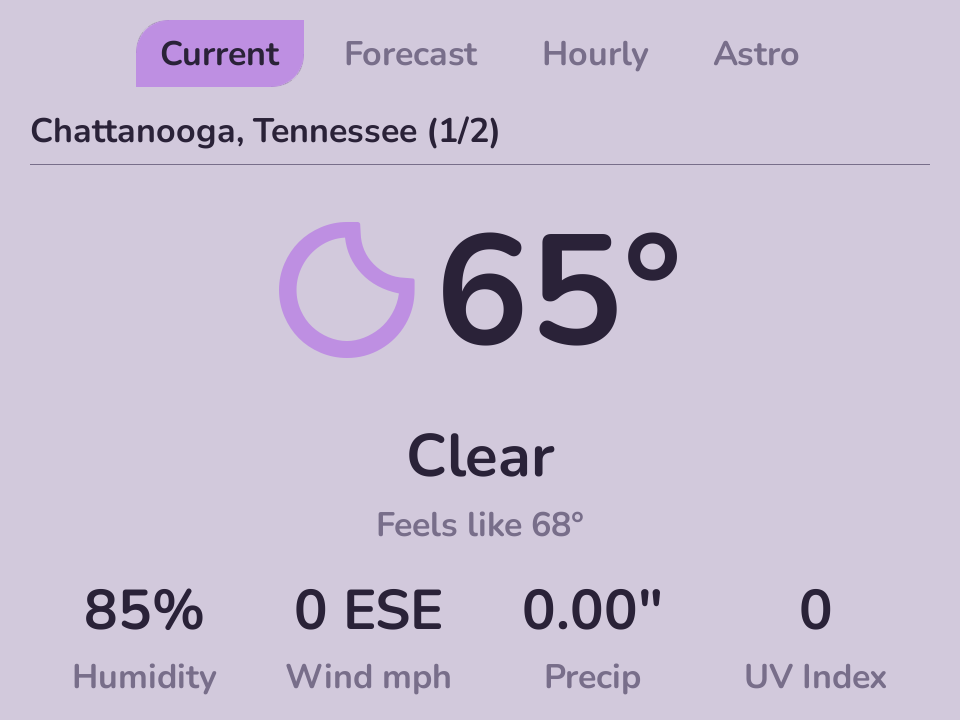
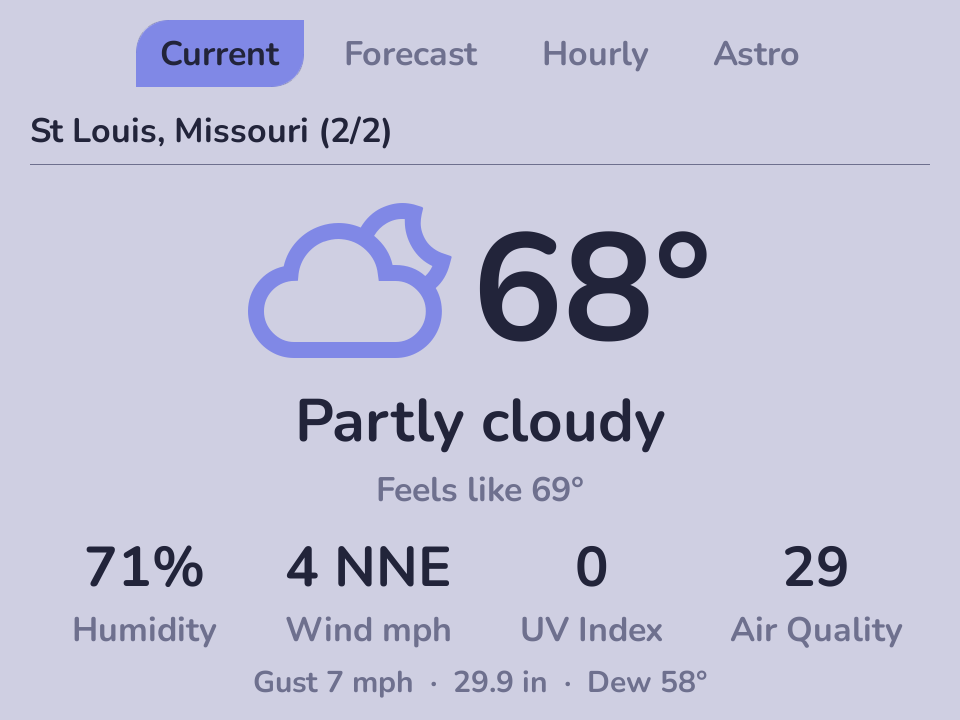
docs: refresh Nimbus page for air quality, extra stats, and the time setting

diff --git a/src/content/docs/app-store/nimbus.md b/src/content/docs/app-store/nimbus.md
@@ -28,15 +28,16 @@ on your SD card. It appears in your Apps list next boot. Nimbus is open source
   and **Astro** for sunrise, sunset, day length, and the moon phase. Switch views
   with **L1 / R1**.
 - **Big and glanceable** - a large weather glyph beside a huge temperature, then the
-  stats that matter. Built for the handheld, not shrunk down from a phone.
+  stats that matter: humidity, wind, UV, and air quality, with a details line for
+  gusts, pressure, and dew point. Built for the handheld, not shrunk down from a phone.
 - **Looks like Leaf** - it inherits your color scheme, font, and selection style, and
   the weather glyphs pick up your theme color.
 - **Many places** - search by city or postal code, or let it find you automatically.
   Flip between your saved locations with **Left / Right**.
 - **Instant, then fresh** - it shows your last weather right away and refreshes in the
   background, so it never makes you wait on the network.
-- **Works offline** - the last forecast is cached, and you can switch between
-  Fahrenheit and Celsius any time.
+- **Works offline** - the last forecast is cached, and you can switch units (Fahrenheit
+  or Celsius) and clock (12 or 24 hour) any time.
 
 ## Locations
 
@@ -51,8 +52,8 @@ or delete it. Your home location is what Nimbus opens to.
 | L1 / R1 | switch view (Current, Forecast, Hourly, Astro) |
 | Left / Right | switch saved location |
 | Up / Down | scroll the view |
-| Y | open the menu (Units, Locations, About) |
+| Y | open the menu (Units, Time, Locations, About) |
 | B | quit |
 
-Units, locations, and the About page all live under the **Y** menu. Weather data is
+Units, time format, locations, and the About page all live under the **Y** menu. Weather data is
 by [Open-Meteo](https://open-meteo.com) (CC-BY 4.0).
